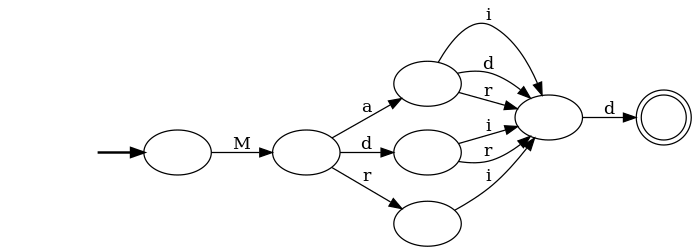
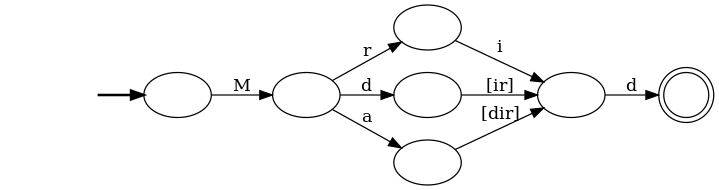
[patterns] support character classes in fsm diagrams

diff --git a/pudzu/sandbox/patterns.py b/pudzu/sandbox/patterns.py
@@ -14,7 +14,7 @@ from itertools import product
 from pathlib import Path
 from pyparsing import printables as ascii_printables, pyparsing_unicode as ppu, srange  # type: ignore
 from tempfile import TemporaryDirectory
-from typing import cast, Any, Dict, Iterable, List, Optional, Set, Tuple, Union
+from typing import cast, Any, Dict, Iterable, List, Optional, Set, Sequence, Tuple, Union
 
 from pudzu.utils import optional_import, merge, merge_with, first  # type: ignore
 
@@ -137,6 +137,8 @@ class NFA:
         fg = "white" if console else "black"
         g = graphviz.Digraph(format="svg")
         g.attr(rankdir="LR", bgcolor=bg)
+
+        # states
         for s in self.states:
             if s == self.start:
                 g.node(str(s), root="true", label="", color=fg)
@@ -146,20 +148,35 @@ class NFA:
                 g.node(str(s), shape="doublecircle", label="", color=fg)
             else:
                 g.node(str(s), label="", color=fg)
-        # TODO: merge parallel edges into classes or ranges
+
+        # transitions
+        reverse_dict = {}
         for (s, i), ts in self.transitions.items():
             if not ts:
                 g.node(str(("fail", s)), label="", color=fg)
             for t in ts or {("fail", s)}:
-                label: str = {Move.ALL: "*", Move.EMPTY: "ε"}.get(i, i).replace("\\", "\\\\")  # type: ignore
-                if self.captures.get((s, i), set()):
-                    label += f" {{{','.join(self.captures[(s, i)])}}}"
-                g.edge(str(s), str(t), label=label, color=fg, fontcolor=fg)
+                c = frozenset(self.captures.get((s, i), set()))
+                reverse_dict.setdefault(s, {}).setdefault((t, c), set()).add(i)
+
+        for s, d in reverse_dict.items():
+            for (t, c), ii in d.items():
+                for input in (i for i in ii if isinstance(i, Move)):
+                    label = {Move.ALL: "*", Move.EMPTY: "ε"}[input]
+                    if c:
+                        label += f" {{{','.join(c)}}}"
+                    g.edge(str(s), str(t), label=label, color=fg, fontcolor=fg)
+                input = "".join(sorted(i for i in ii if isinstance(i, str)))
+                if len(input) >= 1:
+                    label = char_class(input)
+                    if c:
+                        label += f" {{{','.join(c)}}}"
+                    g.edge(str(s), str(t), label=label, color=fg, fontcolor=fg)
 
         g.render(filename=name + ".dot")
 
     def save(self, name: str, renumber_states: bool = True) -> None:
         """Save FSM as a .fsm file."""
+        # TODO: save and load capture groups
 
         def sort_key(s):
             # Q: is there a better state ordering?
@@ -179,21 +196,18 @@ class NFA:
             )
 
         with open(name + ".fsm", "w", encoding="utf-8") as f:
+            reverse_dict = {}
+            for (s, i), ts in self.transitions.items():
+                reverse_dict.setdefault(s, {}).setdefault(frozenset(ts), set()).add(i)
             for state in sorted_states:
                 from_label = label(state)
-                reverse_dict = {}
-                for (s, i), ts in self.transitions.items():
-                    if state == s:
-                        reverse_dict.setdefault(frozenset(ts), set()).add(i)
-                for ts, ii in reverse_dict.items():
+                for ts, ii in reverse_dict.get(state, {}).items():
                     to_labels = " ".join(label(t) for t in ts)
                     for input in (i for i in ii if isinstance(i, Move)):
                         print(f"{from_label} {str(input).replace('Move.','')} {to_labels}", file=f)
                     input = "".join(sorted(i for i in ii if isinstance(i, str)))
                     if len(input) >= 1:
-                        # TODO: combine into ranges when possible?
-                        input = input if len(input) == 1 else f"[{input}]"
-                        print(f"{from_label} {input} {to_labels}", file=f)
+                        print(f"{from_label} {char_class(input)} {to_labels}", file=f)
 
     def example(self, min_length: int = 0, max_length: Optional[int] = None) -> Optional[str]:
         """Generate a random matching string. Assumes NFA has been trimmed of states that can't reach the end."""
@@ -294,6 +308,12 @@ class NFA:
         # converts to a regex, though there's probably a more efficient way
         max_length = self.regex().max_length()
         return int(max_length) if math.isfinite(max_length) else None
+
+
+def char_class(chars: Sequence[str]) -> str:
+    """Generate a character class description of the given characters"""
+    # TODO: handle ranges
+    return chars if len(chars) == 1 else f"[{''.join(sorted(chars))}]"
 
 
 # NFA constructors
@@ -792,8 +812,9 @@ def MatchInsensitively(nfa: NFA) -> NFA:
         if isinstance(i, str):
             transitions.setdefault((s, i.lower()), set()).update(ts)
             transitions.setdefault((s, i.upper()), set()).update(ts)
-            captures.setdefault((s, i.lower()), set()).update(nfa.captures.get((s, i), set()))
-            captures.setdefault((s, i.upper()), set()).update(nfa.captures.get((s, i), set()))
+            if nfa.captures.get((s, i), set()):
+                captures.setdefault((s, i.lower()), set()).update(nfa.captures.get((s, i), set()))
+                captures.setdefault((s, i.upper()), set()).update(nfa.captures.get((s, i), set()))
         else:
             transitions[(s, i)] = ts
     return NFA(nfa.start, nfa.end, transitions, captures)
@@ -1313,7 +1334,7 @@ REFERENCES
     parser.add_argument("-r", dest="regex", action="store_true", help="generate a standard equivalent regex")
     parser.add_argument("-b", dest="bounds", action="store_true", help="generate lexicographic match bounds")
     group = parser.add_mutually_exclusive_group()
-    group.add_argument("-X", dest="examples_only", metavar='N', type=int, help="output N example matches and quit")
+    group.add_argument("-X", dest="examples_only", metavar="N", type=int, help="output N example matches and quit")
     group.add_argument("-R", dest="regex_only", action="store_true", help="output a standard equivalent regex and quit")
 
     args = parser.parse_args()

diff --git a/patterns.md b/patterns.md
@@ -163,14 +163,15 @@ patterns "o+h?"
 ![repetition NFA](images/repetition.png)
 
 **Case-insensitive matches**. The simplest way to implement case insensitivity
-is to simply expand all characters into two element character classes. To mark
-just a subexpression as case insensitive use the `(?i:P)` syntax. Note that this does not implement
+is to simply expand all characters into two element character classes. To mark the whole match
+case insensitive, use the `-i` parameter; to mark
+a subexpression, use the `(?i:P)` syntax. Note that this does not implement
 full Unicode case insensitivity, where string length may change between cases
 (e.g. fußball and FUSSBALL) and where case may depend on locale (e.g. in Turkish
 i uppercases to İ not I).
 
 ```bash
-patterns "(?i:The)"
+patterns "T(?i:he)"
 ```
 
 ![case-insensitive NFA](images/case.png)
